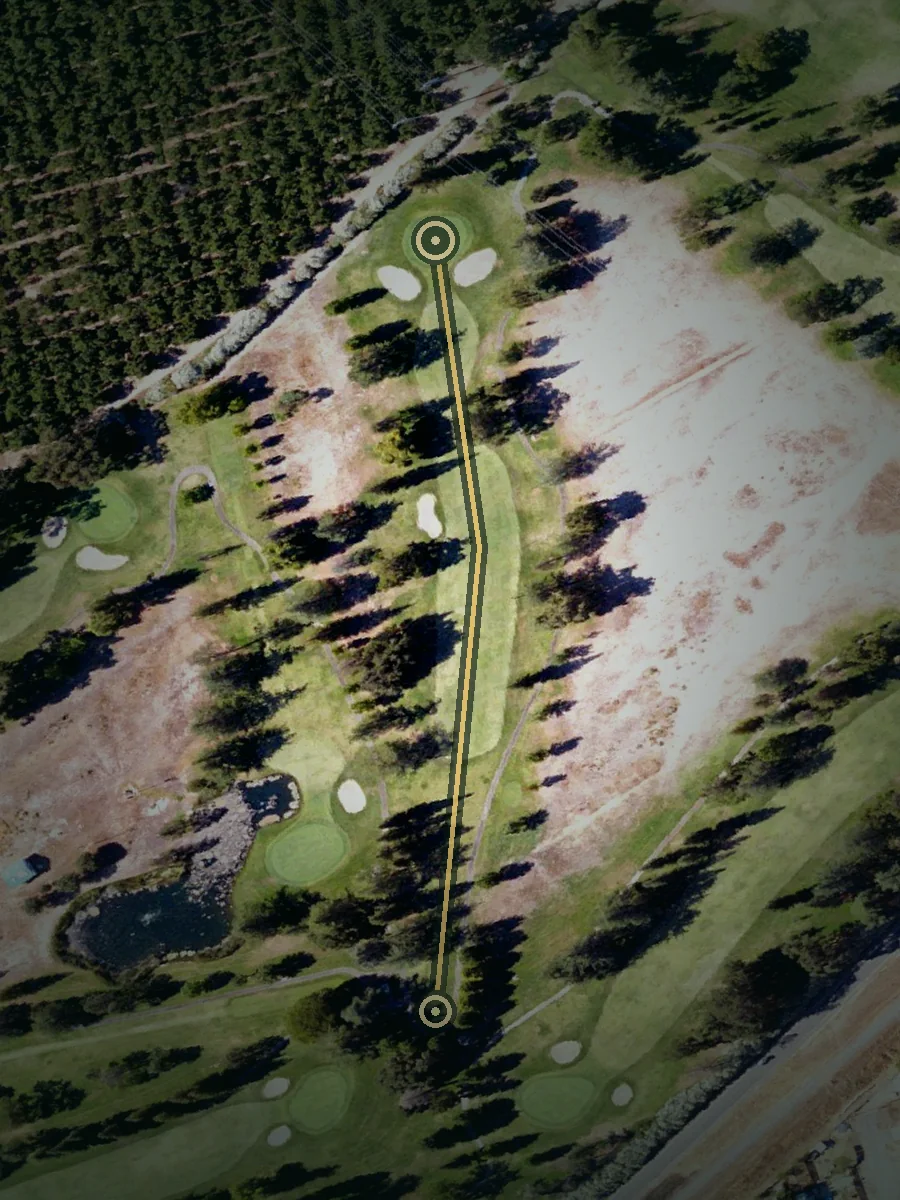
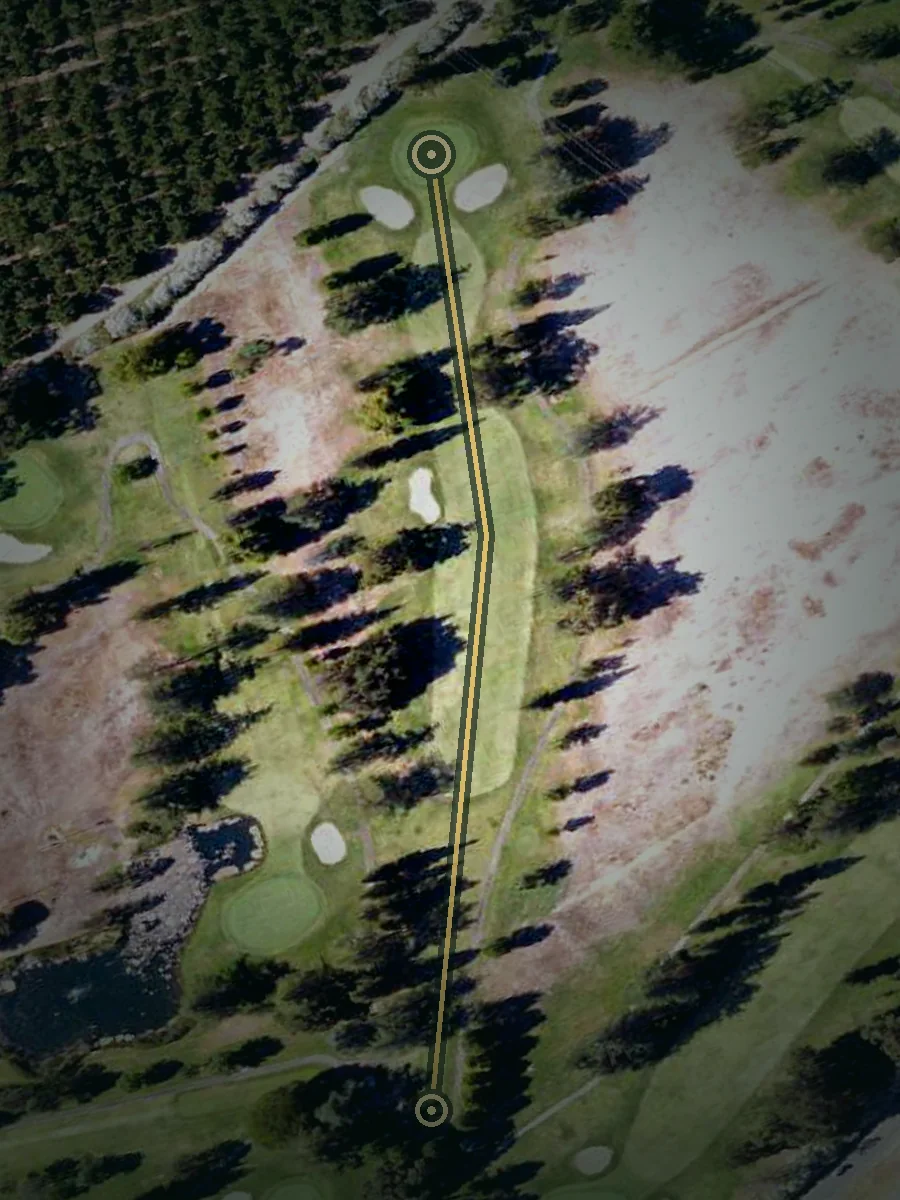
MAR-31: frame each hole card to its own length, not a fixed pad
The old crop added a constant 310x360 source pixels to every hole, so a
162-yard par 3 got the same slack as a 546-yard par 5. Holes came out at
1.78x their own length on average and up to 2.56x on the short par 3s —
far enough out that hole 7's card also showed holes 5 and 8.

Scaling the frame to the hole puts all 18 at 1.25x. The scale is solved in
metres rather than pixels: source pixels are not square on the ground, so
a north-south hole and an east-west one would otherwise be framed
differently for the same numbers.

A 20-yard floor at each end guards against a very short hole cropping to
nothing. It never binds in practice — the 1.25x ratio already yields just
over 20 yards on hole 3, the shortest.

The cost is magnification: par 3s now upsample the NAIP source about 3.4x
and are visibly softer. That is the trade this issue accepted, and it is
what the geometry-locked repaint is meant to answer.

Centerlines and greens are untouched — regenerated via a new --cards-only
path that reads both from sources.json and contacts OpenStreetMap for
nothing.

diff --git a/scripts/generate_peach_tree_atlas.py b/scripts/generate_peach_tree_atlas.py
@@ -27,6 +27,22 @@ NAIP_URL = (
 )
 CARD_SIZE = (900, 1200)
 
+# How much taller the card is than the hole it shows.
+#
+# The old crop padded a fixed 310x360 source pixels regardless of hole length,
+# which framed the average hole at 1.78x its own length and the short par 3s at
+# up to 2.56x — enough that hole 7's card showed holes 5 and 8 as well. Scaling
+# the frame to the hole instead keeps every hole filling its card the same way.
+TARGET_FRAME_RATIO = 1.25
+
+# Absolute floor on the breathing room at each end, whichever way the ratio
+# works out. Twenty yards is about the width of a green: a shot that misses by
+# a green's width is still on the card rather than cropped off it. On the
+# shortest hole (3, at 162 yards) the 1.25 ratio already yields just over this,
+# so the floor almost never binds — it exists so a very short hole cannot crop
+# to nothing.
+MIN_MARGIN_YARDS = 20.0
+
 
 def naip_source_size() -> tuple[int, int]:
     """The raster dimensions NAIP_URL asks for, read from the URL itself.
@@ -100,6 +116,23 @@ def distance_yards(
         * math.sin(delta_lon / 2) ** 2
     )
     return 2 * EARTH_RADIUS_METRES * math.asin(math.sqrt(a)) * YARDS_PER_METRE
+
+
+def source_metres_per_pixel(source_size: tuple[int, int]) -> tuple[float, float]:
+    """Ground distance covered by one source-raster pixel, along each axis.
+
+    The raster is stored in degrees, so a pixel is wider in latitude than in
+    longitude at this latitude. Uses the same earth radius as `distance_yards`
+    so a frame solved here cannot disagree with a yardage measured there.
+    """
+    min_lon, min_lat, max_lon, max_lat = COURSE_BBOX
+    source_width, source_height = source_size
+    mid_lat = math.radians((min_lat + max_lat) / 2)
+    metres_per_degree = math.radians(1.0) * EARTH_RADIUS_METRES
+    return (
+        (max_lon - min_lon) / source_width * metres_per_degree * math.cos(mid_lat),
+        (max_lat - min_lat) / source_height * metres_per_degree,
+    )
 
 
 def polygon_centroid(points: list[tuple[float, float]]) -> tuple[float, float]:
@@ -300,10 +333,36 @@ def card_transform(
         (x - center_x) * perp_x + (y - center_y) * perp_y for x, y in points
     ]
     output_width, output_height = size
-    scale = max(
-        (max(along) - min(along) + 310) / output_height,
-        (max(across) - min(across) + 360) / output_width,
+
+    # Source pixels are not square on the ground: one pixel spans a different
+    # number of metres east-west than north-south, because the raster is in
+    # degrees. So how many metres a pixel covers depends on which way the hole
+    # runs, and the frame has to be solved in metres rather than pixels or a
+    # north-south hole would end up framed differently from an east-west one.
+    metres_per_pixel_x, metres_per_pixel_y = source_metres_per_pixel(source_size)
+    metres_along = math.hypot(unit_x * metres_per_pixel_x, unit_y * metres_per_pixel_y)
+    metres_across = math.hypot(perp_x * metres_per_pixel_x, perp_y * metres_per_pixel_y)
+
+    hole_metres = sum(
+        distance_yards(points_geo[index - 1], points_geo[index])
+        for index in range(1, len(points_geo))
+    ) / YARDS_PER_METRE
+
+    # The frame we want: a fixed multiple of how long the hole actually plays.
+    target = TARGET_FRAME_RATIO * hole_metres / (output_height * metres_along)
+
+    # The frame we need: the hole itself, plus a margin at every edge. The
+    # projected span is never longer than the walked path, so on a straight
+    # hole this sits below the target and does nothing.
+    margin = MIN_MARGIN_YARDS / YARDS_PER_METRE
+    fits_along = ((max(along) - min(along)) * metres_along + 2 * margin) / (
+        output_height * metres_along
     )
+    fits_across = ((max(across) - min(across)) * metres_across + 2 * margin) / (
+        output_width * metres_across
+    )
+
+    scale = max(target, fits_along, fits_across)
 
     return {
         "center": {"x": center_x, "y": center_y},
@@ -502,6 +561,18 @@ def main() -> None:
         ),
     )
     parser.add_argument(
+        "--cards-only",
+        action="store_true",
+        help=(
+            "Recut all 18 hole cards and the overview from the centerlines "
+            "already in sources.json, and rewrite cardGeometry to match. "
+            "Needs the NAIP raster and will download it if absent, but "
+            "contacts OpenStreetMap for nothing: centerlines and greens are "
+            "read from the file and the greens block is left untouched. This "
+            "is the path for a change to how cards are framed."
+        ),
+    )
+    parser.add_argument(
         "--greens-only",
         action="store_true",
         help=(
@@ -517,8 +588,49 @@ def main() -> None:
     output = args.output
     output.mkdir(parents=True, exist_ok=True)
 
-    if args.geometry_only and args.greens_only:
-        parser.error("--geometry-only and --greens-only do different things; pick one")
+    exclusive = [args.geometry_only, args.greens_only, args.cards_only]
+    if sum(bool(flag) for flag in exclusive) > 1:
+        parser.error(
+            "--geometry-only, --greens-only, and --cards-only do different "
+            "things; pick one"
+        )
+
+    def stored_centerlines() -> tuple[dict, dict[int, list[tuple[float, float]]]]:
+        existing = json.loads((output / "sources.json").read_text(encoding="utf-8"))
+        return existing, {
+            number: [
+                (point[0], point[1])
+                for point in existing["centerlines"]["holes"][str(number)]
+            ]
+            for number in range(1, 19)
+        }
+
+    if args.cards_only:
+        existing, centerlines = stored_centerlines()
+        source_path = args.source or Path("tmp/imagegen/peach-tree-naip-source.jpg")
+        if not source_path.exists():
+            download_naip(source_path)
+        source = Image.open(source_path).convert("RGB")
+
+        overview = add_vignette(color_grade(source.resize((1600, 1183))))
+        overview.save(output / "course-aerial.webp", "WEBP", quality=84, method=6)
+
+        for hole_number in range(1, 19):
+            card = atlas_card(source, centerlines[hole_number])
+            card.save(
+                output / f"hole-{hole_number:02d}.webp",
+                "WEBP",
+                quality=84,
+                method=6,
+            )
+
+        existing["cardGeometry"] = build_card_geometry(centerlines, source.size)
+        write_sources(output, existing)
+        print(
+            f"Recut 18 hole cards at {TARGET_FRAME_RATIO:.2f}x framing in "
+            f"{output.resolve()}; greens and centerlines untouched"
+        )
+        return
 
     if args.greens_only:
         existing = json.loads((output / "sources.json").read_text(encoding="utf-8"))

diff --git a/scripts/imagery/make_contact_sheet.py b/scripts/imagery/make_contact_sheet.py
@@ -1,0 +1,144 @@
+"""Every hole, before and after a framing change, on one sheet.
+
+A crop change is easy to verify in aggregate and easy to get wrong on one
+hole — a dogleg that now runs off the edge, a green that lost its surround.
+Eighteen pairs on a single sheet is the cheapest way to catch the one hole that
+broke while the other seventeen improved.
+"""
+
+from __future__ import annotations
+
+import argparse
+import json
+import math
+from pathlib import Path
+
+from PIL import Image, ImageDraw, ImageFont
+
+PANEL_WIDTH = 132
+COLUMNS = 6
+CAPTION = 30
+GAP = 10
+BACKGROUND = (14, 26, 20)
+TEXT = (255, 253, 244)
+MUTED = (150, 178, 160)
+
+EARTH_RADIUS_METRES = 6_371_000
+YARDS_PER_METRE = 1.0936132983377078
+
+
+def font(size: int, bold: bool = False):
+    for name in (["seguisb.ttf"] if bold else ["segoeui.ttf"]):
+        try:
+            return ImageFont.truetype(name, size)
+        except OSError:
+            pass
+    return ImageFont.load_default(size)
+
+
+def distance_yards(first, second) -> float:
+    delta_lat = math.radians(second[0] - first[0])
+    delta_lon = math.radians(second[1] - first[1])
+    a = (
+        math.sin(delta_lat / 2) ** 2
+        + math.cos(math.radians(first[0]))
+        * math.cos(math.radians(second[0]))
+        * math.sin(delta_lon / 2) ** 2
+    )
+    return 2 * EARTH_RADIUS_METRES * math.asin(math.sqrt(a)) * YARDS_PER_METRE
+
+
+def frame_ratio(sources: dict, hole: int) -> float:
+    """Card height against hole length, the number the crop change targets."""
+    card_geometry = sources["cardGeometry"]
+    geometry = {
+        "bbox": card_geometry["bbox"],
+        "source": card_geometry["source"],
+        "card": card_geometry["card"],
+        **card_geometry["holes"][str(hole)],
+    }
+    bbox, source, card = geometry["bbox"], geometry["source"], geometry["card"]
+
+    def card_point(x: float, y: float):
+        across = (x - card["width"] / 2) * geometry["scale"]
+        along = -(y - card["height"] / 2) * geometry["scale"]
+        pixel_x = geometry["center"]["x"] + along * geometry["unit"]["x"] + across * geometry["perp"]["x"]
+        pixel_y = geometry["center"]["y"] + along * geometry["unit"]["y"] + across * geometry["perp"]["y"]
+        return (
+            bbox["maxLat"] - (pixel_y / source["height"]) * (bbox["maxLat"] - bbox["minLat"]),
+            bbox["minLon"] + (pixel_x / source["width"]) * (bbox["maxLon"] - bbox["minLon"]),
+        )
+
+    points = sources["centerlines"]["holes"][str(hole)]
+    hole_yards = sum(
+        distance_yards(points[index - 1], points[index]) for index in range(1, len(points))
+    )
+    card_yards = distance_yards(card_point(450, 0), card_point(450, 1200))
+    return card_yards / hole_yards
+
+
+def cell(before: Path, after: Path, label: str, sub: str) -> Image.Image:
+    height = round(PANEL_WIDTH * 4 / 3)
+    width = PANEL_WIDTH * 2 + 4
+    canvas = Image.new("RGB", (width, height + CAPTION), BACKGROUND)
+
+    for index, path in enumerate((before, after)):
+        image = Image.open(path).convert("RGB").resize((PANEL_WIDTH, height), Image.LANCZOS)
+        canvas.paste(image, (index * (PANEL_WIDTH + 4), 0))
+
+    draw = ImageDraw.Draw(canvas)
+    draw.text((2, height + 5), label, font=font(14, bold=True), fill=TEXT)
+    draw.text((2, height + 19), sub, font=font(11), fill=MUTED)
+    return canvas
+
+
+def main() -> None:
+    parser = argparse.ArgumentParser(description=__doc__)
+    parser.add_argument("--before", type=Path, required=True, help="directory of the old cards")
+    parser.add_argument("--after", type=Path, required=True, help="directory of the new cards")
+    parser.add_argument(
+        "--sources",
+        type=Path,
+        default=Path("public/course/peach-tree/sources.json"),
+    )
+    parser.add_argument("--out", type=Path, required=True)
+    args = parser.parse_args()
+
+    sources = json.loads(args.sources.read_text(encoding="utf-8"))
+
+    cells = []
+    for hole in range(1, 19):
+        name = f"hole-{hole:02d}.webp"
+        cells.append(
+            cell(
+                args.before / name,
+                args.after / name,
+                f"Hole {hole}",
+                f"now {frame_ratio(sources, hole):.2f}x",
+            )
+        )
+
+    rows = math.ceil(len(cells) / COLUMNS)
+    cell_width, cell_height = cells[0].size
+    sheet = Image.new(
+        "RGB",
+        (
+            COLUMNS * cell_width + (COLUMNS + 1) * GAP,
+            rows * cell_height + (rows + 1) * GAP,
+        ),
+        BACKGROUND,
+    )
+    for index, item in enumerate(cells):
+        column, row = index % COLUMNS, index // COLUMNS
+        sheet.paste(
+            item,
+            (GAP + column * (cell_width + GAP), GAP + row * (cell_height + GAP)),
+        )
+
+    args.out.parent.mkdir(parents=True, exist_ok=True)
+    sheet.save(args.out)
+    print(f"Wrote {args.out} ({sheet.width}x{sheet.height}) - each pair is before | after")
+
+
+if __name__ == "__main__":
+    main()
